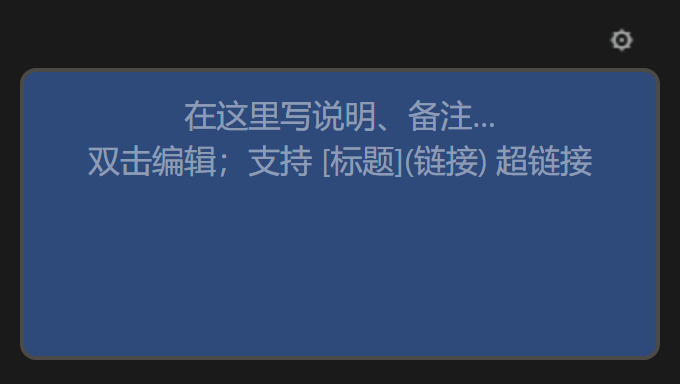
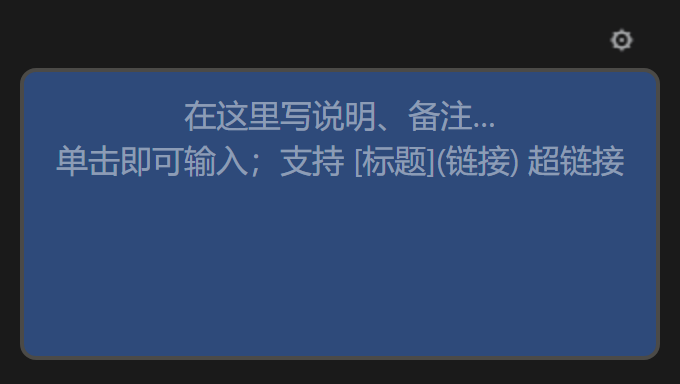
v4.3: click anywhere in the note to edit, caret lands on the click point
- a single click on the note body enters edit mode (was double-click), and the
  caret is placed on the exact character you clicked, using the standard
  `caretPositionFromPoint` hit test — no more arrow-keying to the right spot
- clicking the empty space below the last line puts the caret at the end
- fix: while editing, the render layer stayed on top (opacity 0 but still
  hit-testable), so clicks never reached the textarea and the caret could not
  be moved by clicking at all — it now gets pointer-events: none in edit mode
- a press-and-drag of more than 4px no longer enters edit mode, so the note can
  still be moved; clicking a link still opens it instead of editing
- fallback for engines without caretPositionFromPoint: the caret goes to the
  clicked line (estimated from line-height), not to the very end
- hint text is now "单击即可输入" / "Click to edit"; the old "双击编辑" wording
  stays in the legacy-placeholder cleanup table, so workflows saved by v4.1/v4.2
  are still cleaned on load
- docs: single-click wording, caret behaviour, version 4.3.0, compatibility
  notes; the two hint screenshots regenerated (only those two changed)

Verified with 107 mocked assertions (both widget paths) and a real-Chrome
harness that drives the actual plugin: click -> edit mode OK; in edit mode the
topmost element is the textarea OK; caret mapping is exact (click on line 3
start -> 25, line 2 middle -> 16 = expected, below the text -> 40 = end).

Changed region(s): [[0.0618, 0.375, 0.9265, 0.4688]]

diff --git a/web/textnote_canvas.js b/web/textnote_canvas.js
@@ -1,19 +1,24 @@
 /**
- * ComfyUI-TextNote v4.2 — 画布便签（纯正文 + 齿轮设置 + 界面语言自适应 + 超链接）
+ * ComfyUI-TextNote v4.3 — 画布便签（纯正文 + 齿轮设置 + 界面语言自适应 + 超链接）
  *
  * 画布上只显示便签正文；所有参数收进右上角齿轮设置面板，面板在正文下方，
  * 边调边看不遮挡。无输入口/输出口，不参与执行；内容与设置随工作流 JSON 保存。
  *
+ * v4.3 变更（单击编辑 + 光标落在点击处）：
+ * - 单击正文任意位置即进入编辑，不再需要双击；光标直接落在你点的那个字上，
+ *   不用再用方向键一点点挪（点正文最后一行下方的空白 = 光标到末尾）
+ * - 按住拖动（挪节点等）不会误进编辑态；点超链接仍是打开链接，不进编辑
+ *
  * v4.2 变更（占位提示不再写进正文）：
  * - 新建便签的正文默认为空字符串；「在这里写说明、备注…」等文案只是占位提示
- *   （textarea placeholder + 渲染层灰字），双击即可直接输入，无需先删掉提示文字
+ *   （textarea placeholder + 渲染层灰字），单击即可直接输入，无需先删掉提示文字
  * - 旧工作流里被当成正文保存过的占位提示，加载时自动识别并清空
  * - 顺带修好：齿轮设置面板展开时，正文预览区不再变成空白（面板在下方，本就不重叠）
  *
  * v4.1 变更（学习 MarkdownNote）：
  * - 正文支持超链接：[标题](URL) 与裸 URL 自动转可点击链接（下划线 + 链接色，新标签页打开）
  * - 顺带支持轻量 Markdown：# 标题 / - 列表 / **加粗**
- * - 非编辑态 = 渲染层（链接可点击）；双击正文进入编辑态（textarea），失焦回到渲染层
+ * - 非编辑态 = 渲染层（链接可点击）；编辑态 = textarea，失焦回到渲染层
  */
 import { app } from "/scripts/app.js";
 
@@ -34,7 +39,7 @@ const I18N = {
         font_color: "文字颜色", bg_color: "背景颜色", border_color: "边框颜色",
         bold: "加粗", on: "开", off: "关",
         left: "左对齐", center: "居中", right: "右对齐",
-        defaultText: "在这里写说明、备注…\n双击编辑；支持 [标题](链接) 超链接",
+        defaultText: "在这里写说明、备注…\n单击即可输入；支持 [标题](链接) 超链接",
         title: "📝 便签 TextNote",
     },
     en: {
@@ -43,7 +48,7 @@ const I18N = {
         font_color: "Text color", bg_color: "Background color", border_color: "Border color",
         bold: "Bold", on: "On", off: "Off",
         left: "Left", center: "Center", right: "Right",
-        defaultText: "Write notes here…\nDouble-click to edit; [label](link) supported",
+        defaultText: "Write notes here…\nClick to edit; [label](link) supported",
         title: "📝 TextNote (sticky note)",
     },
 };
@@ -166,12 +171,13 @@ function normalizeNoteText(s) {
 }
 
 /** 历史上曾被写进正文默认值的占位文案；加载旧工作流时按此表清空。
- *  这些都是「真被当成正文存过」的历史字面量，因此独立于 I18N 冻结在此，不再随界面文案变动。 */
+ *  这些都是「真被当成正文存过」的历史字面量，因此独立于 I18N 冻结在此，不再随界面文案变动
+ *  —— 例如 v4.3 把提示改成了「单击即可输入」，这里仍保留 v4.1/v4.2 的「双击编辑」那一版。 */
 const LEGACY_PLACEHOLDER_TEXTS = new Set([
     "在这里写说明、备注…",                                              // v3 / v4.0 中文
     "Write notes and remarks here",                                     // v4.0 英文
-    "在这里写说明、备注…\n双击编辑；支持 [标题](链接) 超链接",              // v4.1 中文
-    "Write notes here…\nDouble-click to edit; [label](link) supported",  // v4.1 英文
+    "在这里写说明、备注…\n双击编辑；支持 [标题](链接) 超链接",              // v4.1–v4.2 中文
+    "Write notes here…\nDouble-click to edit; [label](link) supported",  // v4.1–v4.2 英文
 ].map(normalizeNoteText));
 
 /** textarea 的 placeholder 颜色跟随正文色（Chrome 默认灰在深色便签上偏暗） */
@@ -188,6 +194,9 @@ function ensurePlaceholderStyle() {
 
 const GEAR = "\u2699";       // ⚙
 const CLOSE = "\u2715";      // ✕
+
+// 单击正文进编辑：按下与抬起位置相差超过这个像素数就当作拖动，不进编辑
+const CLICK_DRAG_TOLERANCE = 4;
 
 // 设置面板布局常量
 const PANEL_ROW_H = 24;
@@ -344,18 +353,23 @@ app.registerExtension({
                 if (div.parentElement !== ta.parentElement) {
                     ta.parentElement.appendChild(div);
                 }
-                // 渲染层交互：双击进编辑；链接点击直接放行（新标签页打开）
+                // 渲染层交互：单击进编辑（光标落在点击处）；链接只放行默认行为；拖动不进编辑
                 if (!div.__tnBound && div.addEventListener) {
-                    div.addEventListener("dblclick", (ev) => {
-                        if (ev.target && ev.target.closest && ev.target.closest("a")) return;   // 链接上双击不进编辑
-                        ev.stopPropagation();
-                        this._enterEditMode();
+                    div.addEventListener("mousedown", (ev) => {
+                        div.__tnDown = { x: ev.clientX, y: ev.clientY };
                     });
                     div.addEventListener("click", (ev) => {
-                        // 点在链接上：放行默认行为（新标签页打开），其余冒泡给画布拖动
+                        const down = div.__tnDown;
+                        div.__tnDown = null;
+                        // 点在链接上：新标签页打开，不进编辑态
                         if (ev.target && ev.target.closest && ev.target.closest("a")) {
                             ev.stopPropagation();
+                            return;
                         }
+                        // 按住拖动（挪节点等）不算单击
+                        if (down && (Math.abs(ev.clientX - down.x) > CLICK_DRAG_TOLERANCE ||
+                                     Math.abs(ev.clientY - down.y) > CLICK_DRAG_TOLERANCE)) return;
+                        this._enterEditMode(ev);
                     });
                     div.__tnBound = true;
                 }
@@ -410,15 +424,105 @@ app.registerExtension({
                 }
             }
 
-            /** 双击正文 → 编辑态（与 MarkdownNote 一致）；同时收起面板/色卡 */
-            _enterEditMode() {
+            /** 把鼠标坐标换算成正文里的字符下标并把光标放过去（命中 textarea 才返回 true）。
+             *  浏览器自带的 caretPositionFromPoint 对 textarea 直接给出 value 里的字符下标，
+             *  换行/居中/自动折行都由浏览器算，不需要自己排版。 */
+            _caretFromPoint(x, y) {
+                const ta = this.textWidget && (this.textWidget.inputEl || this.textWidget.element);
+                if (!ta || typeof document === "undefined" ||
+                    typeof ta.setSelectionRange !== "function") return false;
+                const end = String(ta.value ?? "").length;
+
+                // 点在正文最后一行下方的空白处 → 光标放到末尾（最常见的「接着写」）
+                const last = this._renderDiv && this._renderDiv.lastElementChild;
+                if (last && last.getBoundingClientRect) {
+                    const r = last.getBoundingClientRect();
+                    if (r && r.height > 0 && y > r.bottom) {
+                        try { ta.setSelectionRange(end, end); } catch { return false; }
+                        return true;
+                    }
+                }
+
+                let hit = false, idx = 0;
+                try {
+                    if (typeof document.caretPositionFromPoint === "function") {
+                        const p = document.caretPositionFromPoint(x, y);
+                        if (p && p.offsetNode === ta && typeof p.offset === "number") {
+                            hit = true; idx = p.offset;
+                        }
+                    }
+                    if (!hit && typeof document.caretRangeFromPoint === "function") {
+                        // 旧接口：WebKit 系可能返回 textarea 内部文本节点
+                        const r = document.caretRangeFromPoint(x, y);
+                        const n = r && r.startContainer;
+                        if (n === ta && typeof r.startOffset === "number") {
+                            hit = true; idx = r.startOffset;
+                        } else if (n && n.nodeType === 3) {
+                            const host = n.parentElement && n.parentElement.closest
+                                ? n.parentElement.closest("textarea") : null;
+                            if (host === ta) { hit = true; idx = r.startOffset; }
+                        }
+                    }
+                } catch { hit = false; }
+
+                if (!hit) return false;                         // 点在控件外/浏览器不支持 → 交给调用方兜底
+                const at = Math.max(0, Math.min(end, idx));     // 越界/异常下标夹进合法范围
+                try { ta.setSelectionRange(at, at); } catch { return false; }
+                return true;
+            }
+
+            /** 命中测试拿不到结果时的兜底：按行高估算点在第几行，把光标放到那一行行首
+             *  （估不出来才退到末尾）—— 总比让用户从别处一路按方向键要好 */
+            _fallbackCaret(x, y, ta) {
+                const el = ta || (this.textWidget && (this.textWidget.inputEl || this.textWidget.element));
+                if (!el || typeof el.setSelectionRange !== "function") return;
+                const text = String(el.value ?? "");
+                let at = text.length;
+                try {
+                    const rect = el.getBoundingClientRect ? el.getBoundingClientRect() : null;
+                    const lh = (parseFloat(typeof getComputedStyle === "function"
+                        ? getComputedStyle(el).lineHeight : "") || 0) || 20;
+                    if (rect && rect.height > 0 && typeof y === "number") {
+                        const rows = text.split("\n");
+                        if (y > rect.top + rows.length * lh) {
+                            at = text.length;                        // 点在正文最后一行之下 → 末尾
+                        } else {
+                            const row = Math.max(0, Math.min(rows.length - 1,
+                                Math.floor((y - rect.top) / lh)));
+                            at = rows.slice(0, row).join("\n").length + (row > 0 ? 1 : 0);
+                        }
+                    }
+                } catch { at = text.length; }
+                try { el.setSelectionRange(at, at); } catch {}
+            }
+
+            /** 单击正文 → 编辑态，并把光标落在点击位置；同时收起面板/色卡 */
+            _enterEditMode(ev) {
                 if (this._editMode) return;
                 if (this.settingsOpen) this._toggleSettings(false);
                 if (this.openMenu) this._toggleColorMenu(false);
                 this._editMode = true;
-                this.applyNoteStyles();
+                this.applyNoteStyles();          // textarea 立刻可见（渲染层转透明且不再吃点击）
                 const ta = this.textWidget && (this.textWidget.inputEl || this.textWidget.element);
-                if (ta && ta.focus) setTimeout(() => { try { ta.focus(); } catch {} }, 0);
+                if (ta && ta.focus) {
+                    const pt = ev && typeof ev.clientX === "number"
+                        ? { x: ev.clientX, y: ev.clientY } : null;
+                    const place = () => {
+                        try { ta.focus(); } catch {}
+                        if (!pt) return true;
+                        if (this._caretFromPoint(pt.x, pt.y)) return true;
+                        this._fallbackCaret(pt.x, pt.y, ta);   // 先给个近似位置
+                        return false;                          // 让调用方下一帧再精确试一次
+                    };
+                    setTimeout(() => {
+                        if (place() === false && typeof requestAnimationFrame === "function") {
+                            requestAnimationFrame(() => {
+                                try { ta.focus(); } catch {}
+                                this._caretFromPoint(pt.x, pt.y);
+                            });
+                        }
+                    }, 0);
+                }
                 this.setDirtyCanvas(true, true);
             }
 
@@ -941,6 +1045,10 @@ app.registerExtension({
                     // 这样边调样式边看效果；编辑态只用 opacity 让位给 textarea
                     ds.display = "";
                     ds.opacity = this._editMode ? "0" : "1";
+                    // 编辑态必须连点击一起让开：div 还压在上面的话，既吞掉点击，
+                    // 也会让 caretPositionFromPoint 命中 div 而不是 textarea ——
+                    // 表现就是「点了没反应，只能用方向键一点点挪光标」
+                    ds.pointerEvents = this._editMode ? "none" : "auto";
                 }
                 if (this.setDirtyCanvas) this.setDirtyCanvas(true, false);
             }
@@ -1001,6 +1109,6 @@ app.registerExtension({
         }));
         TextNoteNode.category = "utilities";   // 与官方 Note 同分类
 
-        console.info("[TextNote] v4.2 sticky-note registered (empty default text, placeholder hint, gear settings, zh/en UI)");
+        console.info("[TextNote] v4.3 sticky-note registered (click-to-edit at caret, placeholder hint, gear settings, zh/en UI)");
     },
 });

diff --git a/readme.md b/readme.md
@@ -4,7 +4,7 @@
 
 **中文说明见下方 / [中文说明](#中文说明)**
 
-![version](https://img.shields.io/badge/version-4.2.0-blue) ![ComfyUI](https://img.shields.io/badge/ComfyUI-0.35%2B-green) ![license](https://img.shields.io/badge/license-MIT-orange)
+![version](https://img.shields.io/badge/version-4.3.0-blue) ![ComfyUI](https://img.shields.io/badge/ComfyUI-0.35%2B-green) ![license](https://img.shields.io/badge/license-MIT-orange)
 
 |  |  |
 |---|---|
@@ -26,6 +26,7 @@ A **pure-frontend custom node** that lives on your ComfyUI canvas as a sticky no
 - **No inputs, no outputs, never executed** (`isVirtualNode`) — it costs nothing at run time
 - Text and all style settings are **saved inside the workflow JSON** (`serialize_widgets`)
 - The node body **is** a multi-line text editor — WYSIWYG, works with CJK input methods
+- **Click anywhere in the note to start typing** — the caret lands exactly where you clicked (no double-click, no arrow-keying to the right spot)
 - Text stays **visible at any zoom level** (no LOD hiding)
 - All settings live behind a **⚙ gear button** in the node title bar; the panel opens **below the note body**, so you can watch the text update live while you tweak
 - **UI language auto-follows your browser** (English / 中文); color values are stored as language-neutral hex, so workflows are portable across UI languages — legacy Chinese-named values are migrated automatically
@@ -58,21 +59,26 @@ No dependencies beyond what ComfyUI already ships (nothing to pip-install).
 
 1. Restart ComfyUI (or just reload the browser page)
 2. Double-click empty canvas → search **`TextNote`** (category `utilities`, next to the built-in Note)
-3. **Double-click the note body** and type; click the **⚙** in the top-right corner of the title bar to style it
+3. **Click the note body** and type — the caret goes exactly where you clicked; click the **⚙** in the top-right corner of the title bar to style it
 
-A new note starts **empty**: the grey hint (*"Write notes here…"*) is only a placeholder — double-click and type straight away, there is nothing to delete first. Workflows saved with the old version, where that hint was stored as real text, are cleaned up automatically on load.
+A new note starts **empty**: the grey hint (*"Write notes here…"*) is only a placeholder — click and type straight away, there is nothing to delete first. Workflows saved with the old version, where that hint was stored as real text, are cleaned up automatically on load.
 
-### Writing notes: clickable links & light Markdown
+### Writing notes: click-to-edit, clickable links & light Markdown
 
-The note body has two states: **edit** (double-click it → a text box appears, blur to leave) and **render** (everything else → links are clickable). Outside edit mode:
+The note body has two states: **edit** (click it → the text box appears and the caret is placed where you clicked; click outside to leave) and **render** (everything else → links are clickable). Clicking in the empty space **below** the last line of a note puts the caret at the end, ready to continue writing.
+
+Outside edit mode:
 
 - **Links** — `[label](https://example.com)` renders as a clickable link (underlined, opens in a **new tab**). Bare `https://…`, `http://…` and `www.…` addresses are turned into links automatically. Only `http`, `https`, `mailto` and `ftp` are allowed; `javascript:` / `data:` URLs are rejected.
 - **Light Markdown** — `# Heading` (levels 1–4), `- item` / `* item` bullet lists, and `**bold**`.
 - Everything else is shown as plain text, HTML-escaped, so a note can never inject markup into the page.
 
+While in edit mode the note body is a plain text box, so selecting and editing text works exactly like any other textarea.
+
 ### Compatibility
 
-- Developed and tested against **ComfyUI 0.35.1 / frontend 1.51.10**; uses standard `LGraphNode` + `registerCustomNodes` extension APIs
+- Developed and tested against **ComfyUI 0.35.1 / frontend 1.51.10**; re-verified on **frontend 1.53.6** (widget/multiline DOM internals). Uses standard `LGraphNode` + `registerCustomNodes` extension APIs
+- Caret placement on click uses the standard `caretPositionFromPoint` API (Chrome / Edge / Firefox); on engines without it, the caret falls back to the clicked line instead of the very end
 - 23 mocked-browser assertions cover registration, i18n, palettes, panel geometry, click hit-zones and legacy migration
 
 ### Customize
@@ -96,13 +102,14 @@ Edit `web/textnote_canvas.js`:
 |---|---|---|
 | ![设置面板](assets/demo_01_settings_panel.png) | ![文字颜色](assets/demo_02_text_palette.png) | ![背景颜色](assets/demo_03_bg_palette.png) |
 
-**新建便签**：正文是空的，画布上的灰字只是占位提示，双击就能直接输入：
+**新建便签**：正文是空的，画布上的灰字只是占位提示，单击就能直接输入：
 
 ![空便签的灰色占位提示](assets/demo_04_empty_hint.png)
 
 - **没有输入口、没有输出口、不参与执行**（虚拟节点），跑工作流零开销
 - 正文和全部样式**随工作流 JSON 一起保存**，分享 / 拷贝不丢
 - 便签本体就是多行编辑区，所见即所得，中文输入法无障碍
+- **单击即成编辑**：点正文任意位置直接开始写字，**光标就落在你点的那个字上**，不用双击、也不用按方向键挪过去
 - 文字在**任何缩放级别都保持可见**（不会因画布缩小而消失）
 - 所有参数收进标题栏右上角的 **⚙ 齿轮**；设置面板打开在**正文下方**，边调边看效果，不遮挡文字
 - **界面语言自动跟随浏览器**（中文 / English）；颜色值以语言无关的 hex 存储，工作流跨语言通用，旧版中文名存储自动迁移
@@ -135,22 +142,26 @@ ComfyUI/custom_nodes/ComfyUI-TextNote/
 
 1. 重启 ComfyUI（或刷新浏览器页面）
 2. 双击画布空白处搜索 **`便签`** 或 **`TextNote`**（`utilities` 分类，官方 Note 旁边）
-3. **双击便签正文**直接写字；点标题栏右上角 **⚙** 调样式
+3. **单击便签正文**直接写字，光标就落在你点的位置；点标题栏右上角 **⚙** 调样式
 
-新建便签的正文是**空的**：画布上的灰色小字（"在这里写说明、备注…"）**只是占位提示**，双击就能直接输入，不用先把它删掉。旧版本把这段提示当成正文存进工作流的情况，加载时会自动识别并清空。
+新建便签的正文是**空的**：画布上的灰色小字（"在这里写说明、备注…"）**只是占位提示**，单击就能直接输入，不用先把它删掉。旧版本把这段提示当成正文存进工作流的情况，加载时会自动识别并清空。
 
-### 写便签：超链接与轻量 Markdown
+### 写便签：单击编辑、超链接与轻量 Markdown
 
-正文有两种状态：**编辑态**（双击正文 → 出现输入框，点别处退出）和**渲染态**（其余时候 → 链接可点击）。非编辑态下支持：
+正文有两种状态：**编辑态**（单击正文 → 出现输入框，光标落在点击处；点别处退出）和**渲染态**（其余时候 → 链接可点击）。点正文**最后一行下方的空白**会把光标放到末尾，方便接着往下写。
+
+非编辑态下支持：
 
 - **超链接** —— `[标题](https://example.com)` 会渲染成可点击的链接（带下划线，**新标签页**打开）；直接写 `https://…` / `http://…` / `www.…` 也会自动变成链接。只放行 `http`、`https`、`mailto`、`ftp`，`javascript:` / `data:` 一律拦截。
 - **轻量 Markdown** —— `# 标题`（1–4 级）、`- 条目` / `* 条目` 列表、`**加粗**`。
 - 其余内容按纯文本显示（HTML 转义），便签无法往页面里注入任何标记。
 
+编辑态下正文就是普通文本框，选中、改字、Ctrl+A 等操作和平时用的输入框完全一致。
+
 ### 兼容性
 
-- 在 **ComfyUI 0.35.1 / 前端 1.51.10** 上开发并实测；使用标准 `LGraphNode` + `registerCustomNodes` 扩展 API
-- 23 项模拟浏览器断言覆盖注册、双语界面、色板、面板几何、点击命中区与旧版迁移
+- 在 **ComfyUI 0.35.1 / 前端 1.51.10** 上开发并实测；在 **前端 1.53.6** 上复测通过（多行控件 DOM 实现）。使用标准 `LGraphNode` + `registerCustomNodes` 扩展 API
+- 单击定位光标用标准 `caretPositionFromPoint`（Chrome / Edge / Firefox）；浏览器不支持时退化为「放到点击那一行」，不会掉到末尾
 
 ### 自定义
 
